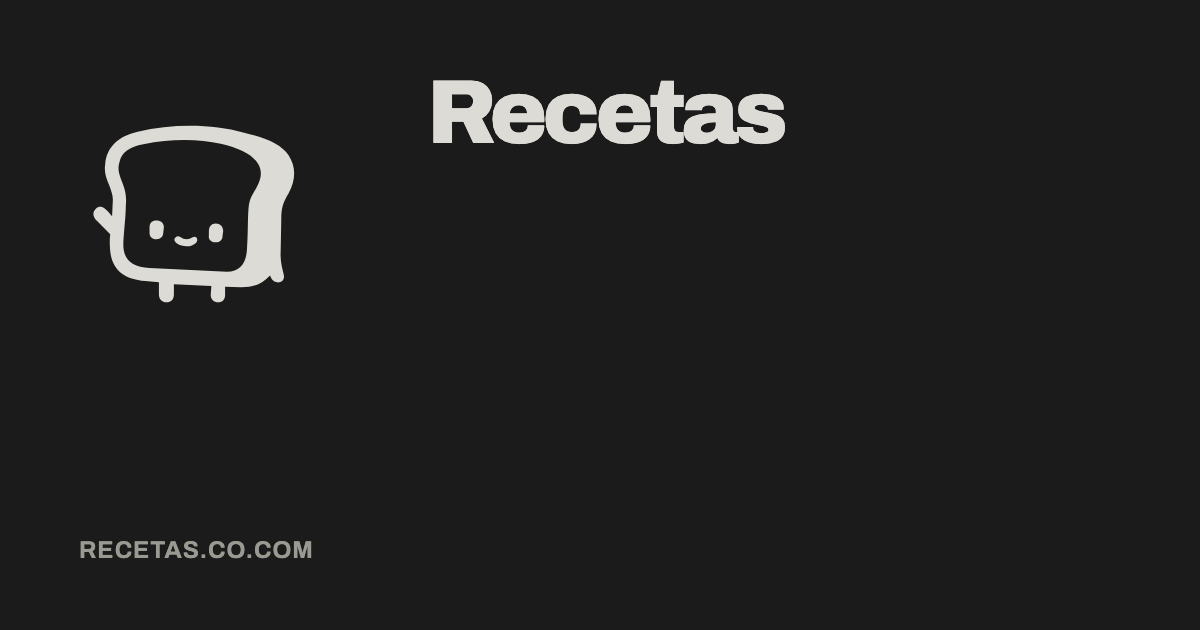
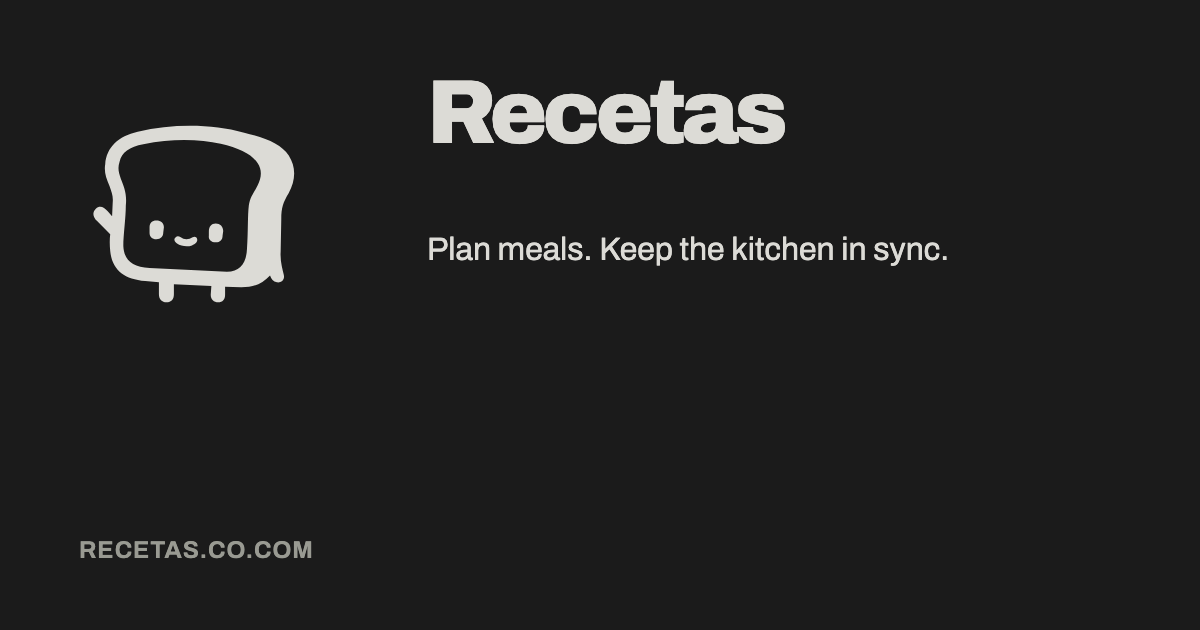
content: complete the Recetas project landing

Changed region(s): [[0.3392, 0.3619, 0.8017, 0.4222]]

diff --git a/apps/landing/scripts/audit.ts b/apps/landing/scripts/audit.ts
@@ -173,7 +173,7 @@ try {
   )
   await writeFile(
     join(directory, 'measurements.json'),
-    `${JSON.stringify({ source, capturedAt: new Date().toISOString(), dns: { mode: authoritativeDns ? 'authoritative override' : 'system', nameserver: authoritativeDns ? nameserver : null, addresses }, reference: { canvas: [1280, 640], innerWidth: 1112, mark: { x: 84, y: 104, width: 246 }, title: { x: 456, y: 64, fontSize: 96 }, note: 'Landing composition uses the same two-column grid and cap-height rhythm, scaled into a centered 1240px frame. WoTEx statement wraps deliberately. Recetas omits unapproved copy. Footer retains prior mark order and adds Recetas eighth.' }, pages, showcase }, null, 2)}\n`
+    `${JSON.stringify({ source, capturedAt: new Date().toISOString(), dns: { mode: authoritativeDns ? 'authoritative override' : 'system', nameserver: authoritativeDns ? nameserver : null, addresses }, reference: { canvas: [1280, 640], innerWidth: 1112, mark: { x: 84, y: 104, width: 246 }, title: { x: 456, y: 64, fontSize: 96 }, note: 'Landing composition uses the same two-column grid and cap-height rhythm, scaled into a centered 1240px frame. WoTEx statement wraps deliberately. Recetas uses the same complete copy and relationship rhythm as the other projects. Footer retains prior mark order and adds Recetas eighth.' }, pages, showcase }, null, 2)}\n`
   )
   const gallery = pages
     .map(

diff --git a/apps/landing/tests/unit/projects.test.ts b/apps/landing/tests/unit/projects.test.ts
@@ -21,9 +21,14 @@ describe('closed project map', () => {
   ])('rejects %s', (host) => {
     expect(resolveHost(host)).toBeUndefined()
   })
-  it('keeps Recetas identity-only and unindexed until copy is approved', () => {
-    expect(projects.recetas.indexed).toBe(false)
-    expect(projects.recetas.statement).toBeUndefined()
+  it('publishes the approved Recetas positioning without exposing its private repository', () => {
+    expect(projects.recetas.indexed).toBe(true)
+    expect(projects.recetas.statement).toBe('Plan meals. Keep the kitchen in sync.')
+    expect(projects.recetas.description).toContain('Home Assistant and Nx')
+    expect(projects.recetas.relationship).toEqual({
+      from: { label: 'Kitchen planning', value: 'Recipes & meal plans' },
+      to: { label: 'Home automation', value: 'Timers & displays' }
+    })
     expect(projects.recetas.link).toBeUndefined()
   })
   it('gives the landing Worker sole ownership of all six domains', async () => {

diff --git a/apps/landing/src/lib/projects.ts b/apps/landing/src/lib/projects.ts
@@ -38,7 +38,13 @@ const projects: Readonly<Record<Project['id'], Project>> = {
     host: 'recetas.co.com',
     name: 'Recetas',
     mark: 'recetas',
-    indexed: false
+    indexed: true,
+    statement: 'Plan meals. Keep the kitchen in sync.',
+    description: 'Pi-hosted kitchen automation with Home Assistant and Nx.',
+    relationship: {
+      from: { label: 'Kitchen planning', value: 'Recipes & meal plans' },
+      to: { label: 'Home automation', value: 'Timers & displays' }
+    }
   }
 }
 

diff --git a/docs/architecture/project-landings.md b/docs/architecture/project-landings.md
@@ -38,19 +38,19 @@ placeholder label, dummy link, or “coming soon”.
 | Host | `wotex.io` | `reloved.eco` | `recetas.co.com` |
 | Name | WoTEx | Reloved | Recetas |
 | Mark | Existing `wotex.svelte` | Existing `reloved.svelte` | Approved `recetas.svelte` toast with transparent interior |
-| Statement | “One standard for Things, and a runtime built to keep them running.” | “Owned locally. Found together.” | None approved; omit |
-| Supporting line | “Open-source Web of Things libraries for Elixir and the BEAM.” | “Exploring household-owned resale networks.” | None approved; omit |
+| Statement | “One standard for Things, and a runtime built to keep them running.” | “Owned locally. Found together.” | “Plan meals. Keep the kitchen in sync.” |
+| Supporting line | “Open-source Web of Things libraries for Elixir and the BEAM.” | “Exploring household-owned resale networks.” | “Pi-hosted kitchen automation with Home Assistant and Nx.” |
 | Primary link | `github.com/wotex-project` | `github.com/reloved-eco` | None approved; omit |
 | Link kind | Open source | Organization | None |
-| Indexing | Index | Index | Noindex until public descriptive copy is approved |
+| Indexing | Index | Index | Index |
 
 The supplied Reloved wording and existing WoTEx wording are approved inputs.
 The Recetas checkout and private `futhr/recetas` repository were inspected on
 8 September 2026. Its README supports the conceptual showcase entry about
-household recipes, meal planning, shopping, and pantry state. Its repository is
-not linked from the public showcase or landing. The initial landing remains
-identity-only and noindex until its descriptive copy is approved explicitly.
-Adding that copy is a content change, not a component change.
+household recipes, meal planning, home automation, and Raspberry Pi hosting.
+The approved landing copy focuses on that local kitchen system and names Home
+Assistant and Nx without linking the private repository. Adding or revising
+copy remains a content change, not a component change.
 
 The user-approved toast replaces the temporary `R` in
 `src/lib/components/logos/recetas.svelte`. Its four paths use `currentColor`; an
@@ -67,8 +67,10 @@ two labels and two values, not arbitrary rich text. Reloved initially uses:
 | From | Local ownership | Household storefronts |
 | To | Shared reach | Network discovery |
 
-WoTEx and Recetas omit the row until exact public language is approved. The
-divider and arrow disappear with it, leaving no empty space.
+WoTEx omits the row until exact public language is approved. Recetas connects
+“Kitchen planning / Recipes & meal plans” to “Home automation / Timers &
+displays”. The divider and arrow disappear when the data is absent, leaving no
+empty space.
 
 ## Composition
 
@@ -182,9 +184,8 @@ environment retains HTTP for development.
 
 Every indexed page has a self-referencing apex canonical URL, title,
 description, Open Graph metadata, and a generated 1200 × 630 social image. The
-`www` host never has separate metadata because it redirects. Recetas emits
-`noindex, nofollow` and is absent from its sitemap until approved descriptive
-copy exists.
+`www` host never has separate metadata because it redirects. All three initial
+projects now have approved descriptive copy and are included in their sitemap.
 
 The root HTML contains the complete visible content, so an agent does not need
 JavaScript. `robots.txt` and `sitemap.xml` are sufficient for the holding
@@ -352,7 +353,8 @@ At 1440px, the shared frame is 1240px wide with its left edge at x=100; the copy
 column starts at x=516. The 107px title and Reloved's statement, supporting line,
 rules, and destination were compared with the supplied 1280px composition at
 the corresponding scale. WoTEx's longer statement occupies two lines; its
-supporting description remains one line. Recetas omits all unapproved regions.
+supporting description remains one line. Recetas uses the same complete copy,
+relationship, and destination rhythm as the other project variants.
 The footer's eight venture marks have approximately 42.5px SVG boxes, down
 from 49.3px, with their previous order preserved.
 
@@ -385,13 +387,11 @@ to their current authoritative addresses inside Chromium only. Certificate
 verification remained enabled. This evidence establishes the live origin,
 TLS, and layout; it does not claim worldwide cache propagation is complete.
 
-One edge-policy gap remains: Cloudflare prepends managed robots directives,
-including `User-agent: *` / `Allow: /`. On Recetas this conflicts with the
-application's `Disallow: /`; its HTML and `X-Robots-Tag` still explicitly say
-`noindex, nofollow`, and its sitemap is empty. The attempted MCP update of
-`is_robots_txt_managed=false` for Recetas was rejected with error 10000.
-Disable that prepend for Recetas with Bot Management edit access, leaving
-the other bot-protection settings unchanged, then recheck `/robots.txt`.
+Cloudflare prepends managed robots directives to each zone. Recetas now has
+approved descriptive copy and the application also emits `Allow: /`, so the
+previous conflict between the managed `Allow: /` and application `Disallow: /`
+no longer exists. Its root metadata, response headers, sitemap, and robots file
+must all remain aligned with the indexed policy.
 
 ## Acceptance criteria
 
@@ -403,8 +403,8 @@ The feature is complete when:
   invitation;
 - WoTEx clearly identifies the open-source project and links to its public
   GitHub organisation while reserving paths for later documentation;
-- Recetas uses the approved toast mark with no invented
-  purpose, destination, or availability claim;
+- Recetas uses the approved toast mark, kitchen-automation positioning, and
+  relationship row without exposing or linking its private repository;
 - every `www` hostname redirects to its matching apex;
 - no hostname belongs to both the landing and waitlist Workers;
 - mail continues to resolve after both DNS cutovers;

diff --git a/docs/architecture/cloudflare.md b/docs/architecture/cloudflare.md
@@ -202,12 +202,11 @@ The public DNS baseline checked on 7 September 2026 is:
    conflicts immediately before that deploy. Run every release check and the
    receipt-to-resolution test before opening collection. No test subscribers
    were inserted into production during this audit.
-8. Cloudflare prepends managed robots rules on the landing zones. For Recetas,
-   the injected `Allow: /` conflicts with its own `Disallow: /`. Its HTML and
-   response header retain `noindex, nofollow`, and the sitemap is empty.
-   Disable only `is_robots_txt_managed` for the Recetas zone and verify the
-   final response. MCP rejected this update with error 10000; no bot-security
-   settings were changed. Retain the existing WoTEx/Reloved crawler policies.
+8. Cloudflare prepends managed robots rules on the landing zones. Recetas now
+   has approved descriptive copy and uses the same indexed policy as WoTEx and
+   Reloved, so its application `Allow: /` agrees with the managed directive.
+   Keep the HTML metadata, response headers, sitemap, and final robots response
+   aligned when changing any project's indexing policy.
 
 ## Cost boundary
 

diff --git a/apps/landing/README.md b/apps/landing/README.md
@@ -32,8 +32,8 @@ release checks must use the built Worker.
 
 Edit `src/lib/projects.ts` for page content and the shared components under
 `../../src/lib/components/logos` for marks. Regenerate icons after mark or
-content changes. Recetas is identity-only and noindex until its landing copy
-is approved; its private repository is not a public destination.
+content changes. Recetas uses its approved public positioning and is indexed;
+its private repository is not a public destination.
 
 ## Build and routing
 
